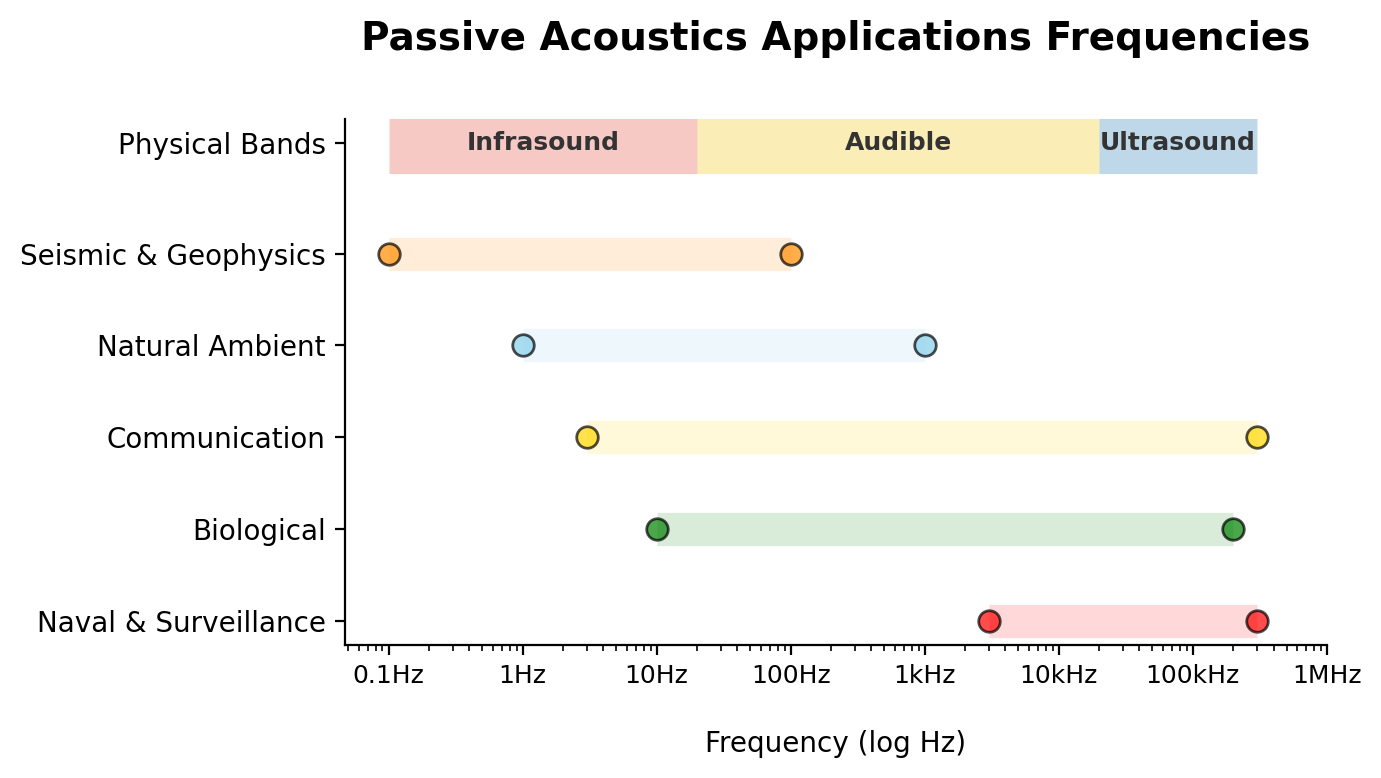
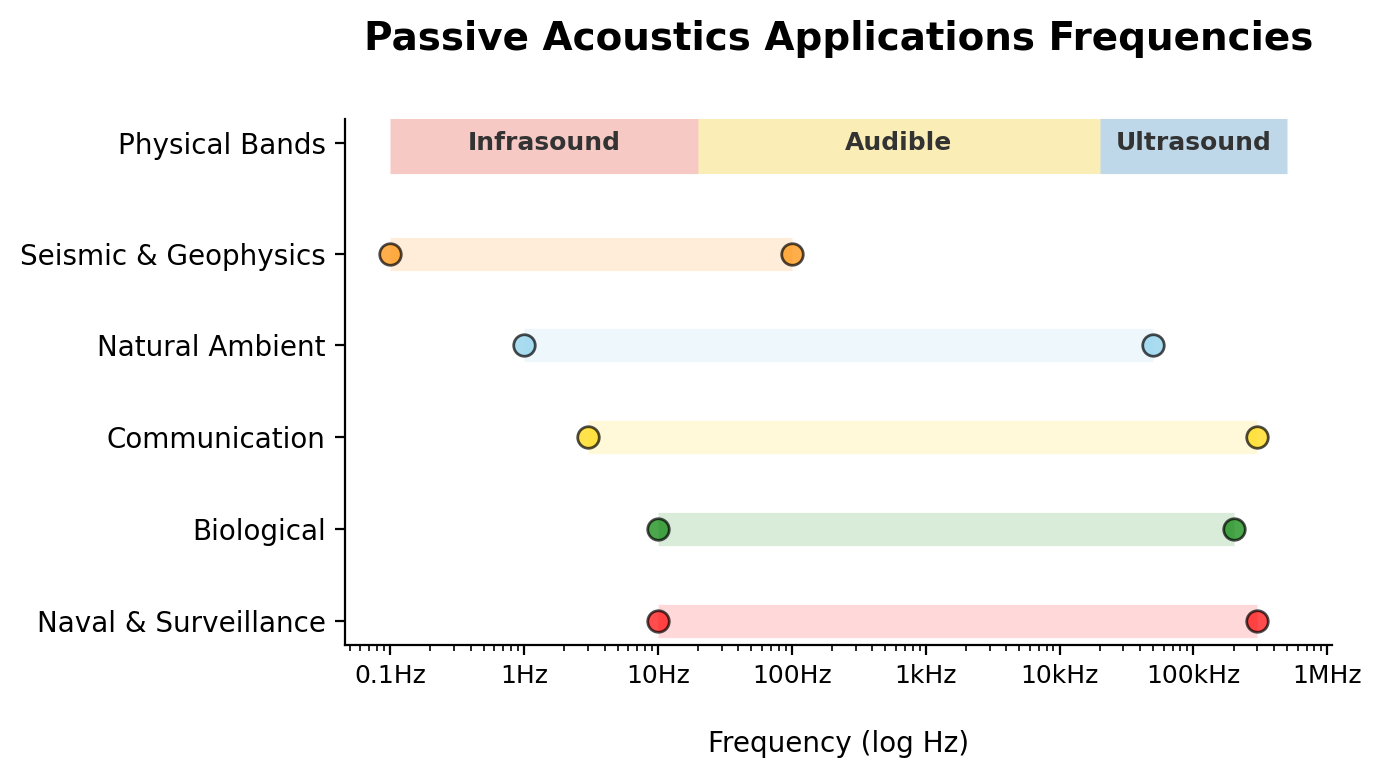
beamforming

diff --git a/_book/sections/9-array-design.html b/_book/sections/9-array-design.html
@@ -135,7 +135,7 @@ ul.task-list li input[type="checkbox"] {
   <h1>Hydrophone Handbook</h1>
   <p class="handbook-banner-tagline">from the whale to the user</p>
   <div class="handbook-banner-org">
-    Data Analytics &amp; Quality | Ocean Networks Canada
+    Ocean Networks Canada
   </div>
   <p class="handbook-banner-date" id="handbook-compile-date"></p>
 </div>
@@ -327,7 +327,7 @@ window.Quarto = {
    
   <ul class="collapse">
   <li><a href="#challenges" id="toc-challenges" class="nav-link active" data-scroll-target="#challenges">Challenges</a></li>
-  <li><a href="#array-design" id="toc-array-design" class="nav-link" data-scroll-target="#array-design">Array design</a>
+  <li><a href="#geometry-and-mounting" id="toc-geometry-and-mounting" class="nav-link" data-scroll-target="#geometry-and-mounting">Geometry and mounting</a>
   <ul class="collapse">
   <li><a href="#hydrophones-can-be-deployed-in-several-configurations" id="toc-hydrophones-can-be-deployed-in-several-configurations" class="nav-link" data-scroll-target="#hydrophones-can-be-deployed-in-several-configurations">Hydrophones can be deployed in several configurations:</a></li>
   </ul></li>
@@ -337,7 +337,7 @@ window.Quarto = {
   <li><a href="#infrastructure-and-flow-noise" id="toc-infrastructure-and-flow-noise" class="nav-link" data-scroll-target="#infrastructure-and-flow-noise">Infrastructure and flow noise</a></li>
   <li><a href="#biofouling" id="toc-biofouling" class="nav-link" data-scroll-target="#biofouling">Biofouling</a></li>
   </ul></li>
-  <li><a href="#sound-direction-beamforming" id="toc-sound-direction-beamforming" class="nav-link" data-scroll-target="#sound-direction-beamforming">Sound direction &amp; beamforming</a></li>
+  <li><a href="#sec-beamforming" id="toc-sec-beamforming" class="nav-link" data-scroll-target="#sec-beamforming">Sound direction &amp; beamforming</a></li>
   <li><a href="#deployment" id="toc-deployment" class="nav-link" data-scroll-target="#deployment">Deployment</a></li>
   <li><a href="#resources" id="toc-resources" class="nav-link" data-scroll-target="#resources">Resources</a></li>
   </ul>
@@ -365,19 +365,26 @@ window.Quarto = {
 </header>
 
 
-<p>When mounting hydrophones, the scientific goals of ocean monitoring will dictate how the infrasctructure is built. There exists several ways that hydrophones can be arranged depending on the application. For example, while a single hydrophone can capture sound, several hydrophones together can provide direction, range, and help with separation of overlapping noises.</p>
-<p>At Ocean Networks Canada, we use two types of arrays:</p>
+<p>The hydrophone configuration is dictated primarily by the scientific objectives of ocean monitoring. At Ocean Networks Canada, passive acoustic infrastructure falls into two deployment configurations:</p>
 <ul>
-<li>Single Hydrophone</li>
-<li>Hydrophone Array</li>
+<li><strong>Single Hydrophone Nodes:</strong> Simpler and least expensive method for long-term soudscape monitoring</li>
+<li><strong>Synchronized Multi-Element Arrays:</strong> Structure mounting 2 to 4 <em>synchronized</em> hydrophones to estimate sound direction or even perform sound localization</li>
 </ul>
+<div class="fig-full">
+<div class="quarto-figure quarto-figure-center">
+<figure class="figure">
+<p><a href="../images/MEF-hydrophone-array.png" class="lightbox" data-gallery="quarto-lightbox-gallery-1" title="A 4-element hydrophone array at the Main Endeavour Field (2,200 m depth), captured by the ROV camera."><img src="../images/MEF-hydrophone-array.png" class="img-fluid figure-img" data-lightbox="true" alt="A 4-element hydrophone array at the Main Endeavour Field (2,200 m depth), captured by the ROV camera."></a></p>
+<figcaption>A 4-element hydrophone array at the Main Endeavour Field (2,200 m depth), captured by the ROV camera.</figcaption>
+</figure>
+</div>
+</div>
 <section id="challenges" class="level1">
 <h1>Challenges</h1>
 <p>The ultimate goal for acoustics data collection is to capture high-quality soundscape while reducing unwanted noise (high Signal to Noise ratio). Noise can originate from nearby instruments, cable vibration, debris hitting the sensor, or even strong ocean currents.</p>
 <p>While it is no small feat (or rather impossible) to eliminate noise entirely, careful infrastructure design, engineering, and testing can drastically improve data quality. In addition, we always want to minimize the risk of damage to the instrument. This section touches on all these elements.</p>
 </section>
-<section id="array-design" class="level1">
-<h1>Array design</h1>
+<section id="geometry-and-mounting" class="level1">
+<h1>Geometry and mounting</h1>
 <p>ONC deploys hydrophones in two ways.</p>
 <p><strong>Cabled arrays</strong> sit on the observatory. Two or four hydrophones are mounted on a frame and wired to an <strong>ONC Link</strong> (ONC’s version of Ocean Sonics’ icLink). The Link time-synchronizes the channels and combines their data streams. The ONC Link is connected to a <strong>Junction Box (JB)</strong> which itself receives power from the seafloor cable. The advantage of cabled sites is that the data comes in in near real time.</p>
 <p><strong>Autonomous arrays</strong> are not cabled. They run on batteries and record onboard until recovery. The JASCO AMARs in Strait of Georgia East is a good example of this. Unfortunately, the data is only available once the hydrophones have been recovered, so there is no way to know in real time if there is an issue with the hydrophones until then. Moreover, if the memory is full, the hydrophone stops recording and we are effectively losing new data.</p>
@@ -385,14 +392,14 @@ window.Quarto = {
 <p>The image below shows a <strong>box-type</strong> hydrophone array, mounted at the MTC (Marine Technology Centre). On this array, there are four hydrophones at locations A, B, C, D, distanced about 1-metre from one another.</p>
 <div class="quarto-figure quarto-figure-center">
 <figure class="figure">
-<p><a href="../images/MTC_hydrophone_array_annotated.png" class="lightbox" data-gallery="quarto-lightbox-gallery-1" title="A box-type hydrophone array with four hydrophones, waiting to be deployed in the Strait of Georgia."><img src="../images/MTC_hydrophone_array_annotated.png" class="img-fluid figure-img" data-lightbox="true" alt="A box-type hydrophone array with four hydrophones, waiting to be deployed in the Strait of Georgia."></a></p>
+<p><a href="../images/MTC_hydrophone_array_annotated.png" class="lightbox" data-gallery="quarto-lightbox-gallery-2" title="A box-type hydrophone array with four hydrophones, waiting to be deployed in the Strait of Georgia."><img src="../images/MTC_hydrophone_array_annotated.png" class="img-fluid figure-img" data-lightbox="true" alt="A box-type hydrophone array with four hydrophones, waiting to be deployed in the Strait of Georgia."></a></p>
 <figcaption>A box-type hydrophone array with four hydrophones, waiting to be deployed in the Strait of Georgia.</figcaption>
 </figure>
 </div>
-<p>The distance between hydrophones is chosen for <strong>beamforming</strong>: estimating direction of arrival. But, 1 metre is too small for whale-localization (see below).</p>
+<p>The distance between hydrophones is chosen for <strong>beamforming</strong>: estimating direction of arrival. At 1 metre between the elements, it is possible to localize sounds emitted roughly between 100-750 Hz, for example Humback Whales. For high-frequency marine mammals (e.g., dolphin whistles, sperm whale clicks), an even smaller spacing is required (see <a href="#sec-beamforming" class="quarto-xref"><span>Sound direction &amp; beamforming</span></a> for a more detailed explanation).</p>
 <div class="quarto-figure quarto-figure-center">
 <figure class="figure">
-<p><a href="../images/box-array.png" class="lightbox" data-gallery="quarto-lightbox-gallery-2" title="Box-type array configuration for hydrophones."><img src="../images/box-array.png" class="img-fluid figure-img" data-lightbox="true" alt="Box-type array configuration for hydrophones."></a></p>
+<p><a href="../images/box-array.png" class="lightbox" data-gallery="quarto-lightbox-gallery-3" title="Box-type array configuration for hydrophones."><img src="../images/box-array.png" class="img-fluid figure-img" data-lightbox="true" alt="Box-type array configuration for hydrophones."></a></p>
 <figcaption>Box-type array configuration for hydrophones.</figcaption>
 </figure>
 </div>
@@ -411,11 +418,11 @@ window.Quarto = {
 <h1>Mitigating noise and instrument damage</h1>
 <section id="interference" class="level2">
 <h2 class="anchored" data-anchor-id="interference">Interference</h2>
-<p>When adding hydrophones to a multi-instrument platform, all nearby infrastructure should ideally be evaluated for noise, although this is a hardeous task and we generally know after the facts if there is interference and to what internsity. Proximity interference will show up clearly as persistent lines or bursts in the spectrogram.</p>
-<p>In this example from 2023, interference noise from instruments on the same platform at the Holyrood site was intense enough to fully mask natural ambient sound, biological vocalizations, and other signals of scientific interests.</p>
+<p>When adding hydrophones to a multi-instrument platform, all nearby infrastructure should ideally be evaluated for noise, although this is a arduous task and we generally know after the fact if there is interference and to what intensity. Proximity interference will show up clearly as persistent lines or bursts in the spectrogram.</p>
+<p>In this example from 2023, interference noise from instruments on the same platform at the Holyrood site was intense enough to fully mask natural ambient sound, biological vocalizations, and other signals of scientific interest.</p>
 <div class="quarto-figure quarto-figure-center">
 <figure class="figure">
-<p><a href="../images/ICLISTENHF2098_20240109T030502.000Z-spect.png" class="lightbox" data-gallery="quarto-lightbox-gallery-3" title="Example of instrument interference (also referred to as noise contamination) at Holyrood, Conception Bay, NL."><img src="../images/ICLISTENHF2098_20240109T030502.000Z-spect.png" class="img-fluid figure-img" data-lightbox="true" alt="Example of instrument interference (also referred to as noise contamination) at Holyrood, Conception Bay, NL."></a></p>
+<p><a href="../images/ICLISTENHF2098_20240109T030502.000Z-spect.png" class="lightbox" data-gallery="quarto-lightbox-gallery-4" title="Example of instrument interference (also referred to as noise contamination) at Holyrood, Conception Bay, NL."><img src="../images/ICLISTENHF2098_20240109T030502.000Z-spect.png" class="img-fluid figure-img" data-lightbox="true" alt="Example of instrument interference (also referred to as noise contamination) at Holyrood, Conception Bay, NL."></a></p>
 <figcaption>Example of instrument interference (also referred to as noise contamination) at Holyrood, Conception Bay, NL.</figcaption>
 </figure>
 </div>
@@ -446,7 +453,7 @@ window.Quarto = {
 <p>Hydrophones are often protected by a cage (guard or shroud), a semi-rigid housing that surrounds the hydrophone. The main purpose to prevent debris, sea life, or cables from striking the sensor. It can also help break turbulent flow (see Karman vortices) around the sensor, which can create low-frequency noise in the data.</p>
 <div class="quarto-figure quarto-figure-center">
 <figure class="figure">
-<p><a href="../images/hydrophone-guards.jpg" class="lightbox" data-gallery="quarto-lightbox-gallery-4" title="Hydrophone guards prevent debris, sea life, and more, from hitting the sensor."><img src="../images/hydrophone-guards.jpg" class="img-fluid figure-img" data-lightbox="true" alt="Hydrophone guards prevent debris, sea life, and more, from hitting the sensor."></a></p>
+<p><a href="../images/hydrophone-guards.jpg" class="lightbox" data-gallery="quarto-lightbox-gallery-5" title="Hydrophone guards prevent debris, sea life, and more, from hitting the sensor."><img src="../images/hydrophone-guards.jpg" class="img-fluid figure-img" data-lightbox="true" alt="Hydrophone guards prevent debris, sea life, and more, from hitting the sensor."></a></p>
 <figcaption>Hydrophone guards prevent debris, sea life, and more, from hitting the sensor.</figcaption>
 </figure>
 </div>
@@ -460,26 +467,43 @@ window.Quarto = {
 <p>The “sock method”: we use a simple <em>sock</em> (graciously made by a local seamstress), which is a soft and flexible cover that fit snug over the hydrophone shroud. It greatly extends lifetime of all hydrophones by preventing microorganisms to directly attach on the sensor. It can also prevent fine sediments (e.g., silt) from settling into the small gaps.</p>
 <div class="quarto-figure quarto-figure-center">
 <figure class="figure">
-<p><a href="../images/hydrophone-sock.png" class="lightbox" data-gallery="quarto-lightbox-gallery-5" title="The sock method helps to prevent biofouling."><img src="../images/hydrophone-sock.png" class="img-fluid figure-img" data-lightbox="true" alt="The sock method helps to prevent biofouling."></a></p>
+<p><a href="../images/hydrophone-sock.png" class="lightbox" data-gallery="quarto-lightbox-gallery-6" title="The sock method helps to prevent biofouling."><img src="../images/hydrophone-sock.png" class="img-fluid figure-img" data-lightbox="true" alt="The sock method helps to prevent biofouling."></a></p>
 <figcaption>The sock method helps to prevent biofouling.</figcaption>
 </figure>
 </div>
 <p>While no method is absolutely full proof, the sock-method has shown to be great success. Biofouling shows up in the data as sa slow decay of sensitivity over time.</p>
 </section>
 </section>
-<section id="sound-direction-beamforming" class="level1">
+<section id="sec-beamforming" class="level1">
 <h1>Sound direction &amp; beamforming</h1>
-<p>A single hydrophone measures <em>level</em>. An array can also estimate <em>direction</em>. That is <strong>beamforming</strong>, not triangulation: triangulation needs several widely separated sites to get range; beamforming uses the small time differences across hydrophones on one frame.</p>
-<p>Sound from one direction reaches hydrophone A slightly before hydrophone B. That <strong>time difference of arrival (TDOA)</strong> and the known spacing give the angle. In practice we delay each channel so a chosen steering direction lines up, then add the channels:</p>
+<p>A single hydrophone measures <em>sound level</em>, regardless of where the sound originated from. To derive any spatial information (where the sound is coming from), multiple hydrophones must be deployed in a synchronized array:</p>
 <ul>
-<li>Energy from that direction adds <strong>coherently</strong> (gain scales about as <span class="math inline">\(N\)</span>, the number of hydrophones).</li>
-<li>Uncorrelated noise adds more slowly (about <span class="math inline">\(1/\sqrt{N}\)</span>).</li>
+<li><strong>Beamforming (Direction of Arrival)</strong>: Uses arrival-time differences across closely-spaced hydrophones on a time-synchronized hydrophone array to calculate the bearing (<span class="math inline">\(\theta\)</span>) or direction of a sound source.</li>
+<li><strong>Trilateration (Position &amp; Range):</strong> Uses measurements across multiple widely-separated hydrophones to calculate the the spatial coordinates (<span class="math inline">\(lat,lon\)</span>) of a sound.</li>
 </ul>
+<div class="callout callout-style-simple callout-warning">
+<div class="callout-body d-flex">
+<div class="callout-icon-container">
+<i class="callout-icon"></i>
+</div>
+<div class="callout-body-container">
+<p><strong>Common Misnomer:</strong> Do not confuse <strong>triangulation</strong> with <strong>trilateration</strong>. What people usually refer to as triangulation is actually trilateration. Triangulation rather uses known angles to estimate distances and not to locate a specific geographical location.</p>
+</div>
+</div>
+</div>
+<p>Sound from a given direction reaches one hydrophone slightly before the others. That <strong>time difference of arrival</strong> (TDOA) and the known element spacing give the angle (<span class="math inline">\(\theta\)</span>) of arrival. In practice we apply phase shifts to each channel in the frequency domain corresponding to a given steering direction and sum the channels.</p>
+<!--
+Sound from one direction reaches hydrophone A slightly before hydrophone B. That **time difference of arrival (TDOA)** and the known spacing give the angle.
+In practice we delay each channel so a chosen steering direction lines up, then add the channels:
+
+* Energy from that direction adds **coherently** (gain scales about as $N$, the number of hydrophones).
+* Uncorrelated noise adds more slowly (about $1/\sqrt{N}$).
+-->
 <p>Three design rules matter:</p>
 <ul>
-<li><strong>Spacing vs frequency.</strong> To avoid spatial aliasing, spacing should be on the order of half a wavelength, <span class="math inline">\(d \approx \lambda/2 = c/(2f)\)</span>. At <span class="math inline">\(c \approx 1500\)</span> m/s, a <strong>1 m</strong> box is only well matched near <strong>~750 Hz</strong>. This frequency overlaps with Humpback whales vocalization, but it is too short for low-frequency whale calls (tens of Hz).</li>
-<li><strong>Timing.</strong> Channel-to-channel sync must be better than one sample period. That is the job of the ONC Link (cabled) or the recorder’s common clock on autonomous devices.</li>
-<li><strong>Geometry.</strong> A line array is directional in one plane; a box or tetrahedral array gives a 3-D arrival angle, still without range.</li>
+<li><strong>Spacing vs frequency:</strong> To avoid spatial aliasing, spacing between elements should satisfy <span class="math inline">\(d \leq \lambda/2 = c/(2f)\)</span>. A <strong>1 m</strong> aperture sets an upper limit of <strong>~750 Hz</strong> for sound directionality, which is well suited for low-frequency sources like humpback whales, fin whales and earthquakes.</li>
+<li><strong>Timing:</strong> Channel-to-channel synchronization must be <em>better than</em> one sample period. That is the job of the ONC Link (cabled) or the recorder’s common clock on autonomous devices.</li>
+<li><strong>Geometry:</strong> A line array is directional in one plane; a box or tetrahedral array gives a 3-D arrival angle, still without range.</li>
 </ul>
 </section>
 <section id="deployment" class="level1">

diff --git a/_book/sections/11-data-products.html b/_book/sections/11-data-products.html
@@ -360,62 +360,90 @@ window.Quarto = {
 <p><em>This page describes each hydrophone data product. To learn how to download files, go to the <a href="../sections/12-data-access.html">Data Access</a>.</em></p>
 <section id="overview" class="level1">
 <h1>Overview</h1>
-<p>Hydrophone data files are generated in 5-minute intervals, categorized as either <strong>raw sensor recordings</strong> (direct acoustic pressure measurements) or <strong>derived products</strong> (downstream spectral transformations).</p>
+<p>Hydrophone data is archived several formats, ranging from raw acoustic recordings to processed spectral products.</p>
+<p>Each device has a collection of files for every 5 minutes of recording:</p>
 <table class="caption-top table">
-<caption>Quick lookup matrix for ONC hydrophone file types.</caption>
-<colgroup>
-<col style="width: 15%">
-<col style="width: 40%">
-<col style="width: 15%">
-<col style="width: 30%">
-</colgroup>
+<caption>Archived formats for hydrophone data.</caption>
 <thead>
 <tr class="header">
-<th style="text-align: left;">Data Type</th>
-<th style="text-align: left;">Product Name</th>
-<th style="text-align: center;">Code / ID</th>
-<th style="text-align: center;">Extensions</th>
+<th>Description</th>
+<th>Data Product Code</th>
+<th>Data Product ID</th>
+<th>File Extension</th>
 </tr>
 </thead>
 <tbody>
 <tr class="odd">
-<td style="text-align: left;"><strong>Raw</strong></td>
-<td style="text-align: left;">Audio Data</td>
-<td style="text-align: center;"><code>AD</code> (7)</td>
-<td style="text-align: center;"><code>.flac</code>, <code>.wav</code>, <code>.mp3</code></td>
+<td>Raw Audio Data (lossless)</td>
+<td>AD</td>
+<td>7</td>
+<td>.flac</td>
 </tr>
 <tr class="even">
-<td style="text-align: left;"><strong>Raw</strong></td>
-<td style="text-align: left;">Array Data <em>(Retired)</em></td>
-<td style="text-align: center;"><code>HARD</code> (38)</td>
-<td style="text-align: center;"><code>.hyd</code></td>
+<td>Raw Audio Data (lossless)</td>
+<td>AD</td>
+<td>7</td>
+<td>.wav</td>
 </tr>
 <tr class="odd">
-<td style="text-align: left;"><strong>Raw</strong></td>
-<td style="text-align: left;">Acceleration Data</td>
-<td style="text-align: center;"><code>HACC</code> (128)</td>
-<td style="text-align: center;"><code>.acc</code></td>
+<td>Raw Audio Data (with loss)</td>
+<td>AD</td>
+<td>7</td>
+<td>.mp3</td>
 </tr>
 <tr class="even">
-<td style="text-align: left;"><strong>Raw</strong></td>
-<td style="text-align: left;">Auxiliary Log File</td>
-<td style="text-align: center;"><code>LF</code> (4)</td>
-<td style="text-align: center;"><code>.txt</code></td>
+<td>Hydrophone Array Raw Data (IOS arrays, retired)</td>
+<td>HARD</td>
+<td>38</td>
+<td>.hyd</td>
 </tr>
 <tr class="odd">
-<td style="text-align: left;"><strong>Derived</strong></td>
-<td style="text-align: left;">Hydrophone Spectral Data</td>
-<td style="text-align: center;"><code>HSD</code> (45)</td>
-<td style="text-align: center;"><code>.fft</code>, <code>.mat</code>, <code>.png</code>, <code>.pdf</code>, <code>.oct</code></td>
+<td>Proprietary Spectral Data (Ocean Sonics only)</td>
+<td>HSD</td>
+<td>45</td>
+<td>.fft</td>
 </tr>
 <tr class="even">
-<td style="text-align: left;"><strong>Derived</strong></td>
-<td style="text-align: left;">Spectral Probability Density</td>
-<td style="text-align: center;"><code>HSPD</code> (51)</td>
-<td style="text-align: center;"><code>.mat</code>, <code>.png</code>, <code>.pdf</code></td>
+<td>Processed Spectral Data</td>
+<td>HSD</td>
+<td>45</td>
+<td>.mat</td>
+</tr>
+<tr class="odd">
+<td>Spectrogram</td>
+<td>HSD</td>
+<td>45</td>
+<td>.png, .pdf</td>
+</tr>
+<tr class="even">
+<td>1/3-octave spectral data (JASCO / GeoSpectrum)</td>
+<td>HSD</td>
+<td>45</td>
+<td>.oct</td>
+</tr>
+<tr class="odd">
+<td>Spectral Probability Density</td>
+<td>HSPD</td>
+<td>51</td>
+<td>.png, .pdf, .mat</td>
+</tr>
+<tr class="even">
+<td>Log / auxiliary file</td>
+<td>LF</td>
+<td>4</td>
+<td>.txt</td>
+</tr>
+<tr class="odd">
+<td>Hydrophone Acceleration Data</td>
+<td>HACC</td>
+<td>128</td>
+<td>.acc</td>
 </tr>
 </tbody>
 </table>
+<p><br>
+</p>
+<p>Note that both <strong>Data Product Code</strong> and <strong>File Extension</strong> are needed when downloading data through the API. Each data product (<code>dataProductCode</code>) has a set of data product options (<code>dpo_*</code>) that can be used to narrow down the request.</p>
 </section>
 <section id="audio-data" class="level1">
 <h1>Audio data</h1>
@@ -587,16 +615,15 @@ window.Quarto = {
 </div>
 <div id="callout-4" class="callout-4-contents callout-collapse collapse">
 <div class="callout-body-container callout-body">
-<p>For a band-pass filtered signal <span class="math inline">\(x(t, f, \Delta f)\)</span>, the mean square acoustic pressure within bandwidth <span class="math inline">\(\Delta f\)</span> over observation period <span class="math inline">\(T\)</span> is given by:</p>
+<p>The mean square value in frequency range <span class="math inline">\((f, \Delta f)\)</span> is:</p>
 <p><span class="math display">\[
 \Psi^2_x(f,\Delta f) = \lim_{T\rightarrow \infty} \frac{1}{T} \int_0^T x(t,f,\Delta f)^2 dt
 \]</span></p>
-<p>The single-sided Power Spectral Density (PSD), <span class="math inline">\(G_x(f)\)</span>, defines the mean square value per bandwidth as <span class="math inline">\(\Delta f\)</span> approaches zero:</p>
+<p>Power spectral density is approximately <span class="math inline">\(\Psi^2_x(f,\Delta f) \approx G_x(f) \Delta f\)</span>:</p>
 <p><span class="math display">\[
 G_x(f) = \lim_{\Delta f \rightarrow 0} \frac{\Psi^2_x(f,\Delta f)}{\Delta f} = \lim_{\Delta f\rightarrow 0} \frac{1}{\Delta f} \left[ \lim_{T\rightarrow \infty} \frac{1}{T} \int_0^T x(t,f,\Delta f)^2 dt \right]
 \]</span></p>
-<p>Consequently, acoustic power within a narrow band is approximated by <span class="math inline">\(\Psi^2_x(f,\Delta f)\approx G_x(f)\Delta f\)</span>.</p>
-<p>The Hydrophone Spectral Probability Density (HSPD) evaluates bins individual PSD into a statistical histogram. The color on the plot represents a probability density (occupancy frequency), or the percentage of time the noise level at that frequency <span class="math inline">\(f\)</span> was measured at intensity level <span class="math inline">\(L\)</span>.</p>
+<p>HSPD then histograms those levels per frequency bin over a long window, so the colour is occupancy (how often that level occurs), not a single spectrogram frame.</p>
 </div>
 </div>
 </div>

diff --git a/_book/sections/5-physics-of-sound.html b/_book/sections/5-physics-of-sound.html
@@ -435,7 +435,7 @@ v = \sqrt{B/\rho}
 <p>The resulting curve of <span class="math inline">\(c\)</span> versus depth is the <strong>sound speed profile</strong>. Off British Columbia, a typical Northeast Pacific profile has a seasonal surface layer, a sound-speed minimum at depth, then an increase with pressure:</p>
 <div class="quarto-figure quarto-figure-center">
 <figure class="figure">
-<p><a href="../images/ssp_seasonal_modified.png" class="lightbox" data-gallery="quarto-lightbox-gallery-4" title="Typical seasonal sound speed profile in the Northeast Pacific, including waters off British Columbia."><img src="../images/ssp_seasonal_modified.png" class="img-fluid figure-img" data-lightbox="true" alt="Typical seasonal sound speed profile in the Northeast Pacific, including waters off British Columbia."></a></p>
+<p><a href="../images/ssp_seasonal.png" class="lightbox" data-gallery="quarto-lightbox-gallery-4" title="Typical seasonal sound speed profile in the Northeast Pacific, including waters off British Columbia."><img src="../images/ssp_seasonal.png" class="img-fluid figure-img" data-lightbox="true" alt="Typical seasonal sound speed profile in the Northeast Pacific, including waters off British Columbia."></a></p>
 <figcaption>Typical seasonal sound speed profile in the Northeast Pacific, including waters off British Columbia.</figcaption>
 </figure>
 </div>
@@ -547,7 +547,7 @@ v = \sqrt{B/\rho}
 </section>
 <section id="transmission-loss" class="level1">
 <h1>Transmission loss</h1>
-<p>From a source (a whale) to a receiver (a hydrophone), the sound level (SL) can drop significantly. That drop is due to <strong>transmission loss (TL)</strong>, or propagation loss. The received sound level (RL) becomes:</p>
+<p>From a source (a whale) to a receiver (a hydrophone), the source level (SL), measured in decibels (dB), can drop significantly. That drop is due to <strong>transmission loss (TL)</strong>, or propagation loss. The received sound level (RL) becomes:</p>
 <p><span class="math display">\[
 RL = SL - TL
 \]</span></p>
@@ -599,8 +599,9 @@ EA = \text{Loss}_{\text{absorption}} + \text{Loss}_{\text{reflection}} + \text{L
 </section>
 <section id="sound-propagation-modelling" class="level1">
 <h1>Sound propagation modelling</h1>
-<p>Ray tracing is used at ONC to locate sources, estimate detection range, plan new sites, and avoid “deaf zones.” The underlying <a href="../sections/15-acoustic-equations.html#wave-equation">wave equation</a> is in Acoustic Equations.</p>
-<p><strong>BELLHOP</strong> (Michael B. Porter) is one of the many sound propagation models that traces beams at a chosen frequency. It needs bathymetry along the path, a sound-speed profile (from <span class="math inline">\(T\)</span>, <span class="math inline">\(S\)</span>, <span class="math inline">\(p\)</span>), and a bottom type (e.g.&nbsp;clay). The output is the transmission loss along a path.</p>
+<p>Ray tracing is used at ONC to locate sources, estimate detection range of our hydrophones, plan new deployment sites, and avoid “deaf zones.”</p>
+<p>There are multiple sound propagation models, each with different accuracies depending on the frequency of the emitting sound, and the complexity of the environment the sound is propagating into (e.g., rugged terrain, canyons, highly stratified waters). Each model essentially <em>solves</em> the <a href="../sections/15-acoustic-equations.html#wave-equation">wave equation</a> to compute the transmission loss along the propagation path.</p>
+<p><strong>BELLHOP</strong> (Michael B. Porter) is one of the many sound propagation models that traces beams at a chosen frequency. The required parameters include the bathymetry along the path, a sound-speed profile (from <span class="math inline">\(T\)</span>, <span class="math inline">\(S\)</span>, <span class="math inline">\(p\)</span>), and a bottom type (e.g.&nbsp;clay).</p>
 <div class="quarto-figure quarto-figure-center">
 <figure class="figure">
 <p><a href="../images/Bellhop-ray-tracing-right-box-for-a-standard-sound-speed-profile-left-box-indicating.png" class="lightbox" data-gallery="quarto-lightbox-gallery-10" title="Example of ray tracing (right) using BELLHOP with a specific sound speed profile (left)."><img src="../images/Bellhop-ray-tracing-right-box-for-a-standard-sound-speed-profile-left-box-indicating.png" class="img-fluid figure-img" data-lightbox="true" alt="Example of ray tracing (right) using BELLHOP with a specific sound speed profile (left)."></a></p>

diff --git a/_book/sections/4-how-hydrophones-work.html b/_book/sections/4-how-hydrophones-work.html
@@ -458,7 +458,7 @@ window.Quarto = {
 </thead>
 <tbody>
 <tr class="odd">
-<td style="text-align: left;"><strong>Low-Frequency (Infrasonic)</strong></td>
+<td style="text-align: left;"><strong>Low-Frequency</strong></td>
 <td style="text-align: left;"><span class="math inline">\(1\text{ Hz} - 1\text{ kHz}\)</span></td>
 <td style="text-align: left;">Geophysics, earthquakes, large baleen whales (e.g., Blue, Fin)</td>
 </tr>
@@ -468,7 +468,7 @@ window.Quarto = {
 <td style="text-align: left;">Commercial shipping noise, fish vocalizations, general soundscape</td>
 </tr>
 <tr class="odd">
-<td style="text-align: left;"><strong>High-Frequency (Ultrasonic)</strong></td>
+<td style="text-align: left;"><strong>High-Frequency (or broadband)</strong></td>
 <td style="text-align: left;"><span class="math inline">\(10\text{ Hz} - 200\text{ kHz}\)</span></td>
 <td style="text-align: left;">Odontocete echolocation (e.g., Orca, Porpoise), acoustic harassment devices</td>
 </tr>
@@ -548,7 +548,6 @@ M_\nu = \frac{V_{\text{output}}}{p_{\text{input}}} \ \ ; \ \ \text{units:} \left
 <li>Short window = good time resolution, poor frequency resolution</li>
 <li>Long window = good frequency resolution, poor time resolution</li>
 </ul>
-<p>Hydrophones can be put into three categories, infrasonic, ultrasonic, and ??</p>
 <section id="signal-to-noise-ratio" class="level2">
 <h2 class="anchored" data-anchor-id="signal-to-noise-ratio">Signal to noise ratio</h2>
 <p>Signal to Noise ratio is an important element to consider for hydrophones.</p>
@@ -632,12 +631,12 @@ NEP [Pa] = \frac{\text{Pre-amp Noise} ~[\mu V]}{\text{Sensitivity} ~[nV~Pa^{-1}]
 <tr class="odd">
 <td><span style="color: skyblue;"><strong>Natural Ambient</strong></span></td>
 <td>Ambient noise monitoring.</td>
-<td><strong>10 Hz - 1000 Hz</strong></td>
+<td><strong>10 Hz - 50 kHz</strong></td>
 </tr>
 <tr class="even">
 <td><span style="color: red;"><strong>Naval &amp; Surveillance</strong></span></td>
 <td>Submarine/Vessel detection, harbour surveillance.</td>
-<td><strong>3 kHz – 300 kHz</strong></td>
+<td><strong>10 Hz – 300 kHz</strong></td>
 </tr>
 <tr class="odd">
 <td><span style="color: gold;"><strong>Communication</strong></span></td>
@@ -650,7 +649,7 @@ NEP [Pa] = \frac{\text{Pre-amp Noise} ~[\mu V]}{\text{Sensitivity} ~[nV~Pa^{-1}]
 <div class="cell-output cell-output-display">
 <div class="quarto-figure quarto-figure-center">
 <figure class="figure">
-<p><a href="4-how-hydrophones-work_files/figure-html/map-output-output-1.png" class="lightbox" data-gallery="quarto-lightbox-gallery-8" title="Comparison of frequency ranges across multidisciplinary hydrophone applications."><img src="4-how-hydrophones-work_files/figure-html/map-output-output-1.png" width="690" height="389" alt="Comparison of frequency ranges across multidisciplinary hydrophone applications." class="figure-img"></a></p>
+<p><a href="4-how-hydrophones-work_files/figure-html/map-output-output-1.png" class="lightbox" data-gallery="quarto-lightbox-gallery-8" title="Comparison of frequency ranges across multidisciplinary hydrophone applications."><img src="4-how-hydrophones-work_files/figure-html/map-output-output-1.png" width="691" height="389" alt="Comparison of frequency ranges across multidisciplinary hydrophone applications." class="figure-img"></a></p>
 <figcaption>Comparison of frequency ranges across multidisciplinary hydrophone applications.</figcaption>
 </figure>
 </div>
